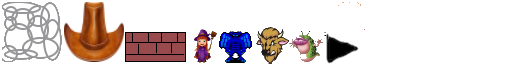
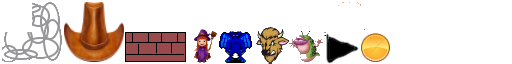
Added coin

Changed region(s): [[0.6875, 0.5, 0.7812, 0.9688], [0.0, 0.0312, 0.0625, 0.5]]

diff --git a/futurewars/core/src/com/pintu/futurewars/Casts/Player2.java b/futurewars/core/src/com/pintu/futurewars/Casts/Player2.java
@@ -18,6 +18,7 @@ public class Player2 extends FutureWarsCast {
     public String selectedBullet = null;
     public boolean hasJumpingKit = false;
     public float healthReduceTime = 0;
+    public int totalCoin = 0;
     public final float HEALTH_REDUCETION_TIME_CONSTANT=.5f;//time after which the health will be automatically reduced by a unit
     public float HEALTH_REDUCTION_CONSTANT=1;
 
@@ -44,7 +45,7 @@ public class Player2 extends FutureWarsCast {
         if(healthReduceTime > HEALTH_REDUCETION_TIME_CONSTANT && health > MIN_HEALTH){
             healthReduceTime = 0;
             health -= HEALTH_REDUCTION_CONSTANT;
-            System.out.println(health);
+            //System.out.println(health);
         }
         super.update(dt);
     }
@@ -75,10 +76,14 @@ public class Player2 extends FutureWarsCast {
     @Override
     public void handleContact(GameObject gObj){
         gObj.handleContact(this);
-        /*if(gObj instanceof  Pusher){
-            takeDamage(GameConstants.PUSHER_DAMAGE);
-        }*/
-
+        if(gObj instanceof  Pusher){
+            float xVelocity = ((Pusher)gObj).body.getLinearVelocity().x;
+            float yVelocity = ((Pusher)gObj).body.getLinearVelocity().y;
+            //System.out.println("xVelocity: " + xVelocity + ", YVelocity: " + yVelocity);
+            if(Math.abs(xVelocity) > 10 || Math.abs(yVelocity) >10) {
+                takeDamage(GameConstants.PUSHER_DAMAGE);
+            }
+        }
     }
 
     @Override

diff --git a/futurewars/core/src/com/pintu/futurewars/Casts/Pusher.java b/futurewars/core/src/com/pintu/futurewars/Casts/Pusher.java
@@ -30,7 +30,12 @@ public class Pusher extends FutureWarsCast {
         if(gObj instanceof Player2){
             //toBeDestroyed = true;
             Player2 player2 = ((Player2) gObj);//.body.applyLinearImpulse(new Vector2(20, 10), body.getWorldCenter(), true);
-            player2.takeDamage(GameConstants.PUSHER_DAMAGE);
+            float xVelocity = body.getLinearVelocity().x;
+            float yVelocity = body.getLinearVelocity().y;
+            //System.out.println("xVelocity: " + xVelocity + ", YVelocity: " + yVelocity);
+            if(Math.abs(xVelocity) > 10 || Math.abs(yVelocity) >10) {
+                player2.takeDamage(GameConstants.PUSHER_DAMAGE);
+            }
         }
     }
 
@@ -45,7 +50,7 @@ public class Pusher extends FutureWarsCast {
         if(Math.abs(Math.abs(pXpose)-Math.abs(myXpos)) < 5
                 && Math.abs(Math.abs(pYpose)-Math.abs(myYpos)) < 5){
             if(itsPushTime(dt)) {
-                //body.setLinearVelocity((pXpose - myXpos) * 10f, (pYpose - myYpos) * 10f);
+                body.setLinearVelocity((pXpose - myXpos) * 10f, (pYpose - myYpos) * 10f);
             }
         }else{
             if(itsFlyTime(dt)) {

diff --git a/futurewars/core/src/com/pintu/futurewars/Casts/Coin.java b/futurewars/core/src/com/pintu/futurewars/Casts/Coin.java
@@ -1,0 +1,33 @@
+package com.pintu.futurewars.Casts;
+
+import com.badlogic.gdx.graphics.g2d.TextureAtlas;
+import com.badlogic.gdx.maps.MapObject;
+import com.badlogic.gdx.math.Vector2;
+import com.badlogic.gdx.physics.box2d.World;
+import com.pintu.futurewars.Constants.GameConstants;
+import com.pintu.futurewars.Utility.GameUtility;
+import com.pintu.futurewars.commons.GameObject;
+
+/**
+ * Created by hsahu on 8/14/2017.
+ */
+
+public class Coin extends FutureWarsCast {
+    public Coin(int id, World w, TextureAtlas a, MapObject obj) {
+        super(id, GameConstants.COIN_PROPERTY_FILE, w, a, obj);
+    }
+    @Override
+    public void handleContact(GameObject gObj){
+        if(gObj instanceof Player2){
+            toBeDestroyed = true;
+            ((Player2) gObj).totalCoin++;
+            System.out.println(((Player2) gObj).totalCoin);
+        }
+    }
+
+    @Override
+    public void destroy(){
+        super.destroy();
+        //GameUtility.addPowerBlast(sprite.getX()-sprite.getWidth()/2,sprite.getY()-sprite.getHeight()/2);
+    }
+}

diff --git a/futurewars/core/src/com/pintu/futurewars/Constants/GameConstants.java b/futurewars/core/src/com/pintu/futurewars/Constants/GameConstants.java
@@ -30,7 +30,7 @@ public class GameConstants {
     public static final float SUCKER_SIZE = DESIRED_SIZE;
     public static final float SUCKER_CREATOR_SIZE = DESIRED_SIZE;
     public static final float BRICK_SIZE =45;
-    public static final float PUSHER_DAMAGE = 0;
+    public static final float PUSHER_DAMAGE = 5;
 
     //Sucker Creator related
     public static final float SUCKER_CREATOR_RECOIL_TIME=30f;
@@ -98,5 +98,6 @@ public class GameConstants {
     public static final String ENEMY_BLAST_PROPERTY_FILE = "propertyFiles/blasts/enemyBlast.txt";
     public static final String POWER_BLAST_PROPERTY_FILE = "propertyFiles/blasts/powerBlast.txt";
     public static final String COWBOY_HAT_PROPERTY_FILE = "propertyFiles/cowboyHat.txt";
+    public static final String COIN_PROPERTY_FILE = "propertyFiles/coin.txt";
 
 }

diff --git a/futurewars/core/src/com/pintu/futurewars/Screens/GameScreen.java b/futurewars/core/src/com/pintu/futurewars/Screens/GameScreen.java
@@ -16,6 +16,7 @@ import com.badlogic.gdx.physics.box2d.World;
 import com.badlogic.gdx.utils.viewport.FitViewport;
 import com.badlogic.gdx.utils.viewport.Viewport;
 import com.pintu.futurewars.Casts.BombAmo;
+import com.pintu.futurewars.Casts.Coin;
 import com.pintu.futurewars.Casts.CowBoyHat;
 import com.pintu.futurewars.Casts.JumpingKit;
 import com.pintu.futurewars.Casts.Player2;
@@ -170,6 +171,14 @@ public class GameScreen implements Screen {
             amo.yPos = 10;
             amo.initialize();
             gameObjects.add(amo);
+        }
+        Coin coin;
+        for(int i = 0;i<5;i++){
+            coin = new Coin(3,world, GameUtility.getAtlas(),null);
+            coin.xPos = 2 + i*30;
+            coin.yPos = 7;
+            coin.initialize();
+            gameObjects.add(coin);
         }
     }
 

diff --git a/futurewars/core/src/com/pintu/futurewars/com/pintu/futurewars/armory/Bomb.java b/futurewars/core/src/com/pintu/futurewars/com/pintu/futurewars/armory/Bomb.java
@@ -26,7 +26,7 @@ public class Bomb extends GameBullet {
 
     @Override
     public int getDamage() {
-        return GameConstants.BASIC_BULLET_DAMAGE;
+        return GameConstants.BOMB_DAMAGE;
     }
 
     @Override
